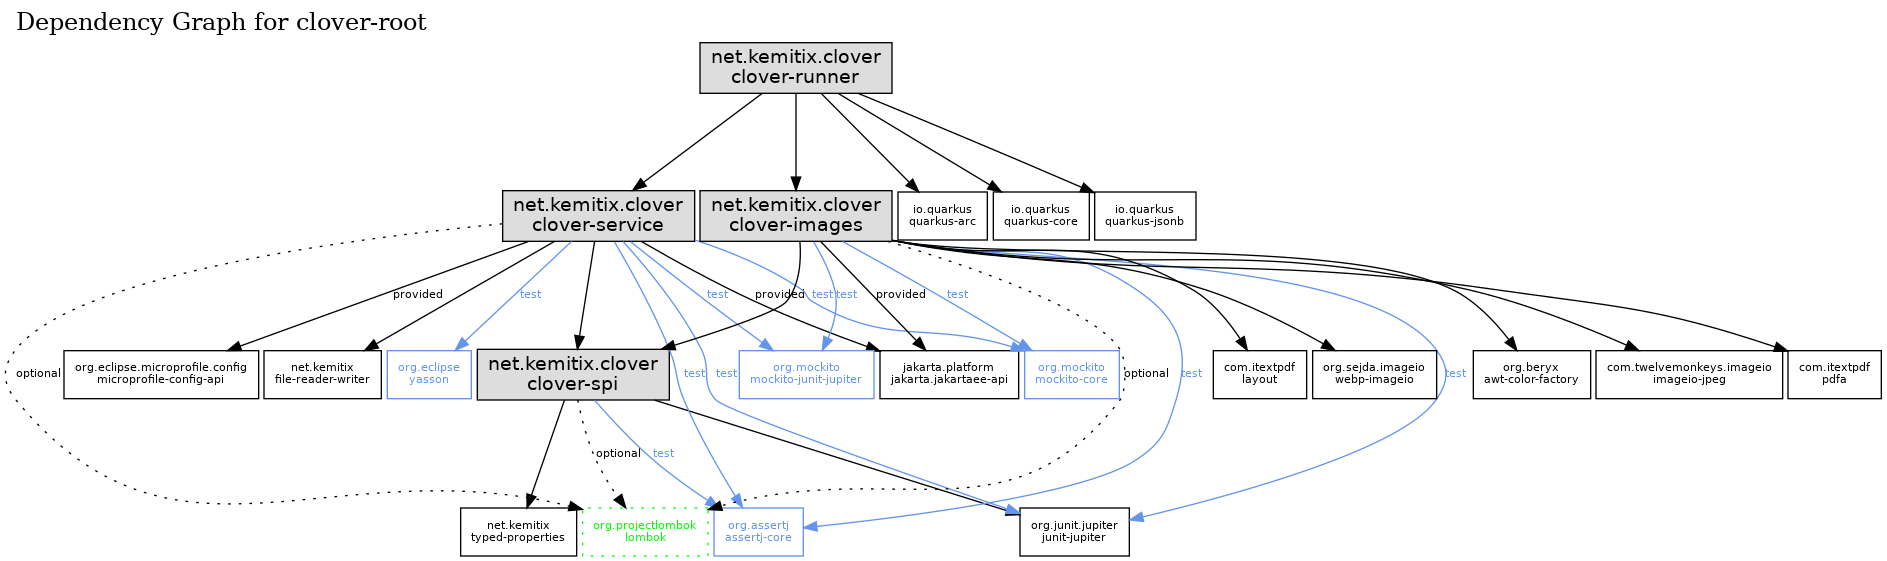
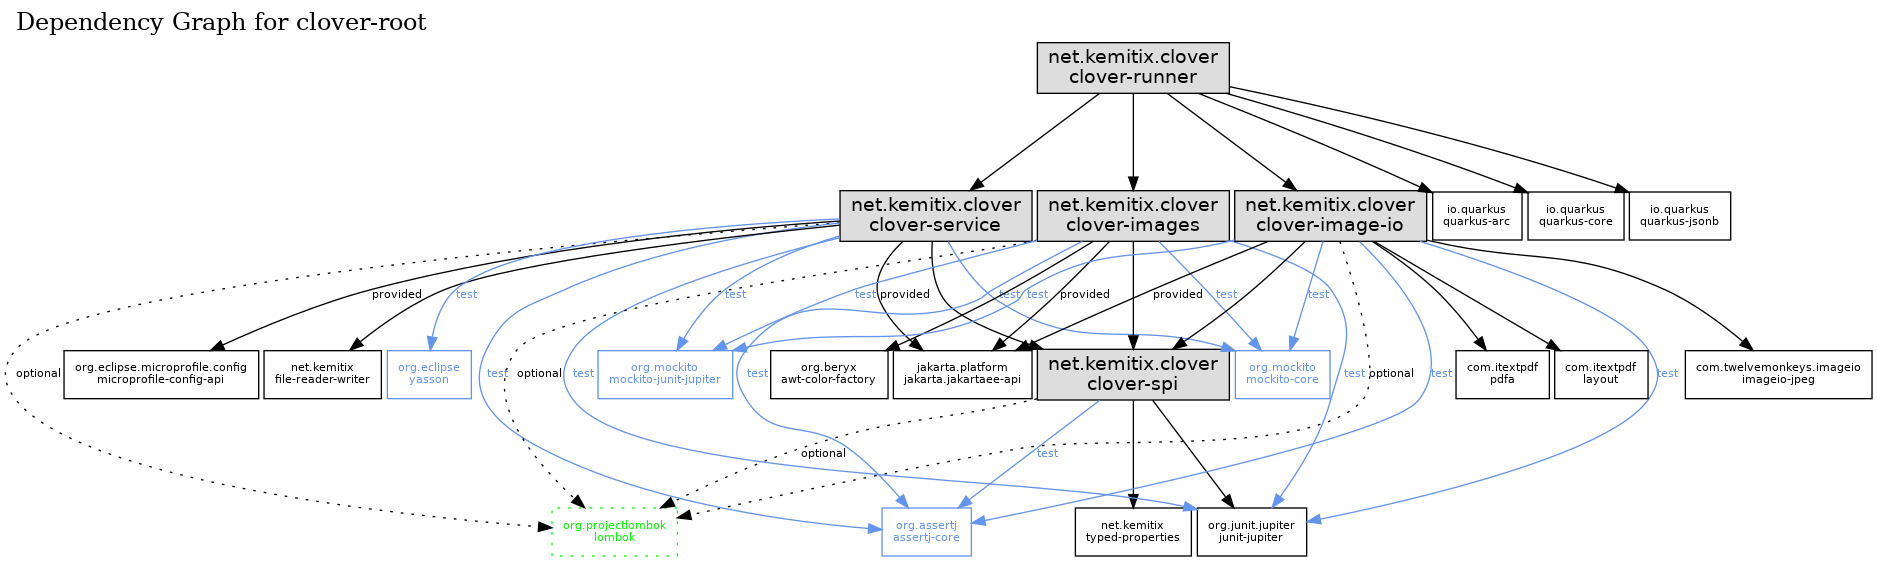
image-io: split module from images

diff --git a/image-io/src/main/java/net/kemitix/clover/image/io/PdfImageWriter.java b/image-io/src/main/java/net/kemitix/clover/image/io/PdfImageWriter.java
@@ -1,4 +1,4 @@
-package net.kemitix.clover.images;
+package net.kemitix.clover.image.io;
 
 import com.itextpdf.io.image.ImageData;
 import com.itextpdf.io.image.ImageDataFactory;
@@ -9,6 +9,7 @@ import com.itextpdf.layout.Document;
 import com.itextpdf.layout.element.Image;
 import net.kemitix.clover.spi.PdfHeight;
 import net.kemitix.clover.spi.PdfWidth;
+import net.kemitix.clover.spi.images.ImageWriter;
 import net.kemitix.properties.typed.TypedProperties;
 
 import javax.enterprise.context.Dependent;

diff --git a/images/src/main/java/net/kemitix/clover/images/CloverImageService.java b/images/src/main/java/net/kemitix/clover/images/CloverImageService.java
@@ -5,6 +5,7 @@ import net.kemitix.clover.spi.FatalCloverError;
 import net.kemitix.clover.spi.FontCache;
 import net.kemitix.clover.spi.images.Image;
 import net.kemitix.clover.spi.images.ImageService;
+import net.kemitix.clover.spi.images.ImageWriter;
 
 import javax.enterprise.context.Dependent;
 import javax.enterprise.inject.Instance;

diff --git a/image-io/src/main/java/net/kemitix/clover/image/io/AbstractImageIOImageWriter.java b/image-io/src/main/java/net/kemitix/clover/image/io/AbstractImageIOImageWriter.java
@@ -1,5 +1,6 @@
-package net.kemitix.clover.images;
+package net.kemitix.clover.image.io;
 
+import net.kemitix.clover.spi.images.ImageWriter;
 import net.kemitix.properties.typed.TypedProperties;
 
 import javax.imageio.ImageIO;

diff --git a/spi/src/main/java/net/kemitix/clover/spi/images/ImageWriter.java b/spi/src/main/java/net/kemitix/clover/spi/images/ImageWriter.java
@@ -1,4 +1,4 @@
-package net.kemitix.clover.images;
+package net.kemitix.clover.spi.images;
 
 import net.kemitix.properties.typed.TypedProperties;
 

diff --git a/image-io/src/main/java/net/kemitix/clover/image/io/JpegImageWriter.java b/image-io/src/main/java/net/kemitix/clover/image/io/JpegImageWriter.java
@@ -1,4 +1,4 @@
-package net.kemitix.clover.images;
+package net.kemitix.clover.image.io;
 
 import net.kemitix.properties.typed.TypedProperties;
 

diff --git a/image-io/src/main/java/net/kemitix/clover/image/io/WebpImageWriter.java b/image-io/src/main/java/net/kemitix/clover/image/io/WebpImageWriter.java
@@ -1,4 +1,4 @@
-package net.kemitix.clover.images;
+package net.kemitix.clover.image.io;
 
 import javax.enterprise.context.Dependent;
 
